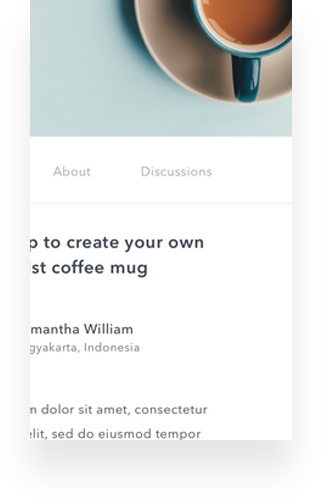
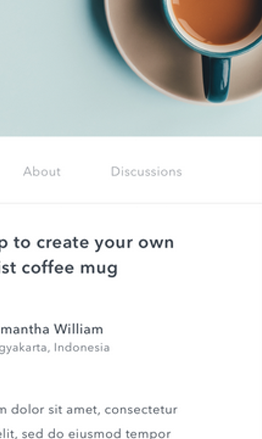
The slider is done. #23

diff --git a/src/blocks/price/price.scss b/src/blocks/price/price.scss
@@ -1,0 +1,76 @@
+@import "./../../assets/scss/vars.scss";
+.price {
+    box-sizing: border-box;
+    display: flex;
+    flex-direction: column;
+    align-items: center;
+    width: 263px;
+    //-height: 481px;
+    background-color: $gray-background;
+    padding-bottom:40px ;
+    &__title {
+        color: $price-text-color;
+        font-weight: bold;
+        font-size: 20px;
+        padding-top: 15px;
+        padding-bottom: 18px;
+        font-family: $font-secondary;
+    }
+    &__cost {
+        width: 100%;
+        display: flex;
+        justify-content: center;
+        align-items: center;
+        color: $price-text-color;
+        font-weight: bold;
+        height: 120px;
+        clip-path: polygon(0% 0%, 100% 0, 100% 60%, 50% 100%, 0 60%);
+        font-family: $font-secondary;
+        background-color: $white;
+        .cost {
+            height: 37px;
+            &__currency {
+                vertical-align: top;
+                font-size: 18px;
+            }
+            &__value {
+                font-size: 37px;
+            }
+            &__period {
+                font-size: 18px;
+            }
+        }
+    }
+    &__features {
+        width: 203px;
+        margin-top: 40px;
+        display: flex;
+        flex-direction: column;
+        align-items: center;
+         &__item{
+            text-align: center;
+            width: 100%;
+            border-bottom: 1px dashed $light-gray;
+            &:first-child{
+                margin-top: 0;
+            }
+            margin-top: 20px;
+        }
+        &+p{
+            margin-top: 50px;
+            margin-bottom: 14px;
+        }
+    }
+    &_active {
+        .price__cost {
+            color: white;
+            background-image: $main-gradient;
+            box-shadow: 0 10px 30px rgba(0, 0, 0, 0.1);
+        }
+        
+    }
+    &__footer-text {
+        color: #aaaaaa;
+        line-height: 23.95px;
+    }
+}

diff --git a/src/blocks/slider/slider.scss b/src/blocks/slider/slider.scss
@@ -1,0 +1,56 @@
+.slider-container {
+    width: 100%;
+    position: relative;
+    .button {
+        position: absolute;
+        &:first-child {
+            left:5%;
+            top: 50%;
+            z-index:10;
+        }
+        &:last-child {
+            right:5%;
+            top: 50%;
+            z-index:10;
+        }
+    }
+    .slider__screenshots-container {
+        margin:0 auto;
+        position: relative;
+        width: 100%;
+        max-width: 1148px;
+        height: 600px;
+        img {
+            position: absolute;
+            top: 50%;
+            transform: translateY(-50%);
+            box-shadow: 0 30px 40px rgba(0, 0, 0, 0.1);
+            &:nth-child(1) {
+                left: 0;
+            }
+            &:nth-child(2) {
+                left: 6%;
+                z-index: 3;
+            }
+            &:nth-child(3) {
+                left: 17%;
+                z-index: 4;
+            }
+            &:nth-child(4) {
+                left: 34%;
+                z-index: 5;
+            }
+            &:nth-child(5) {
+                right: 17%;
+                z-index: 4;
+            }
+            &:nth-child(6) {
+                right: 6%;
+                z-index: 3;
+            }
+            &:nth-child(7) {
+                right:0;
+            }
+        }
+    }
+}

diff --git a/src/pages/index.scss b/src/pages/index.scss
@@ -92,8 +92,11 @@ h2 {
         }
     }
     .slider-screenshots {
+        background-color: $gray-background;
         .content-container {
-            background-color: $gray-background;
+            width:100%;
+            max-width:  1920px;
+            
         }
         &__text {
             width: 100%;
@@ -102,10 +105,22 @@ h2 {
         }
     }
     .pricing {
+        .content-container{
+            width:100%;
+            max-width: 1140px;
+            display: flex;
+        }
+        .price{
+            margin-right: 30px;
+            &:last-child{
+                margin-right: 0;
+            }
+        }
         &__text {
             width: 100%;
             max-width: 656px;
             text-align: center;
+            margin-bottom: 80px;
         }
         &-container {
             display: flex;

diff --git a/src/assets/scss/reset.scss b/src/assets/scss/reset.scss
@@ -42,10 +42,10 @@ h1, h2, h3, h4, h5, h6 { font-size: 100%; font-weight: normal; }
 html { box-sizing: border-box; }
 *, *:before, *:after { box-sizing: border-box; }
 :focus { outline: 0; }
-
+/*
 img, audio, video { max-width: 100%; height: auto; }
 audio, canvas, iframe, video, img, svg { vertical-align: middle; }
-iframe { border: 0 }
+iframe { border: 0 }*/
 
 // From
 textarea {

diff --git a/src/blocks/testimonial/testimonial.scss b/src/blocks/testimonial/testimonial.scss
@@ -25,9 +25,7 @@
                 font-weight: bold;
                 line-height: 24px;
             }
-            &__company{
-
-            }
+            
         }
     }
 }
